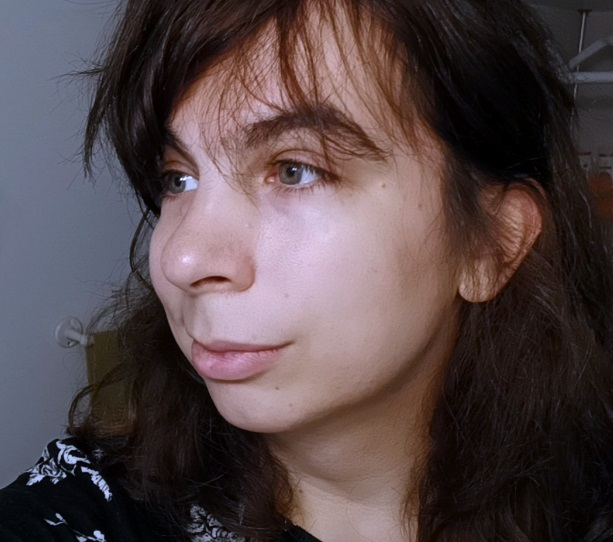
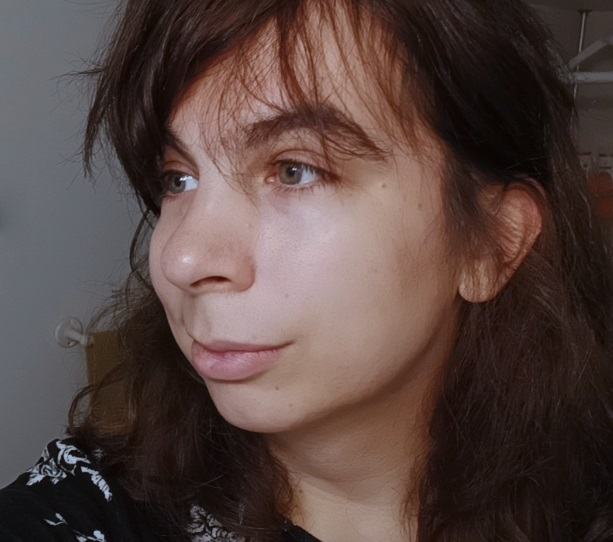
working

diff --git a/index.html b/index.html
@@ -9,7 +9,7 @@
     html { scrollbar-gutter: stable; }
     
     .profile { margin-top: -20px; line-height: 1.3; display: flex; gap: 12px; align-items: center; justify-content: center; }
-        .profile .img { margin-left: 0; border-radius: 5px; background-image: url(assets/pfp.jpg); width: 108px; aspect-ratio: 22/20; background-size: cover; background-repeat: no-repeat; background-position: center; border: 1px solid light-dark(#9a9a9a, #1f1f20); filter: grayscale(0.33); }
+        .profile .img { margin-left: 0; border-radius: 5px; background-image: url(assets/pfp.jpg); width: 108px; aspect-ratio: 22/20; background-size: cover; background-repeat: no-repeat; background-position: center; border: 1px solid light-dark(#9a9a9a, #1f1f20); filter: brightness(1.1) contrast(1.1) grayscale(0.4); }
         .profile .name { font: 600 40px/1 Lora,'Georgia Pro',serif; white-space: nowrap; margin: 0; }
     
     .tabs { margin-block: 24px; justify-content: center; padding: 0 1em; font: 16px/1 'DM Sans',sans-serif; display: flex; gap: 2px 20px; flex-wrap: wrap; border-block: 1px solid light-dark(#c9c9c9, #222324); color: var(--grey-6,dimgrey); }
@@ -92,9 +92,8 @@
         /* page width is < 600px */
         @media (max-width: 600px) {
             .profile { justify-content: center; }
-            .profile .img { margin-left: 0; }
+            .profile .img { margin-left: 0; margin-bottom: 5px; }
             .profile { flex-direction: column; gap: 7px; }
-            .profile .img { margin-bottom: 5px; }
             .profile .name { text-align: center; }
             .container { padding-inline: 0 !important; }
             .links-panel { padding: 8px 0 0; }
@@ -141,7 +140,7 @@
                     </ul>
                 </div>
                 <div class="auto-paragraphs text-panel">
-                    I'm a writer and YouTuber from Canada trying to push back against an online ecosystem poisoned by disinformation and extremism.
+                    I'm a writer and YouTuber from Canada. Join me as I fight back against an online ecosystem poisoned by disinformation and extremism.
                 </div>
                 <div class="recent-panels">
                     <div>

diff --git a/assets/layout.js b/assets/layout.js
@@ -569,7 +569,7 @@ function loadBody() {
             <div class="main-container">
                 <article class="article">${ document.body.innerHTML }</article>
                 <div class="article-gutter"></div>
-                <footer class="article-footer"><p>This is a personal site powered by <a href="https://github.com/irisembury">GitHub</a>. I have no association with any other person or organization. For general inquiry, contact irisembury@gmail.com</p></footer>
+                <footer class="article-footer"><p>This is a simple personal site powered by <a href="https://github.com/irisembury">GitHub</a>. I have no association with any other person or organization. For general inquiry, contact irisembury@gmail.com</p></footer>
             </div>
             <div class="right-spacer"></div>
         </div>
